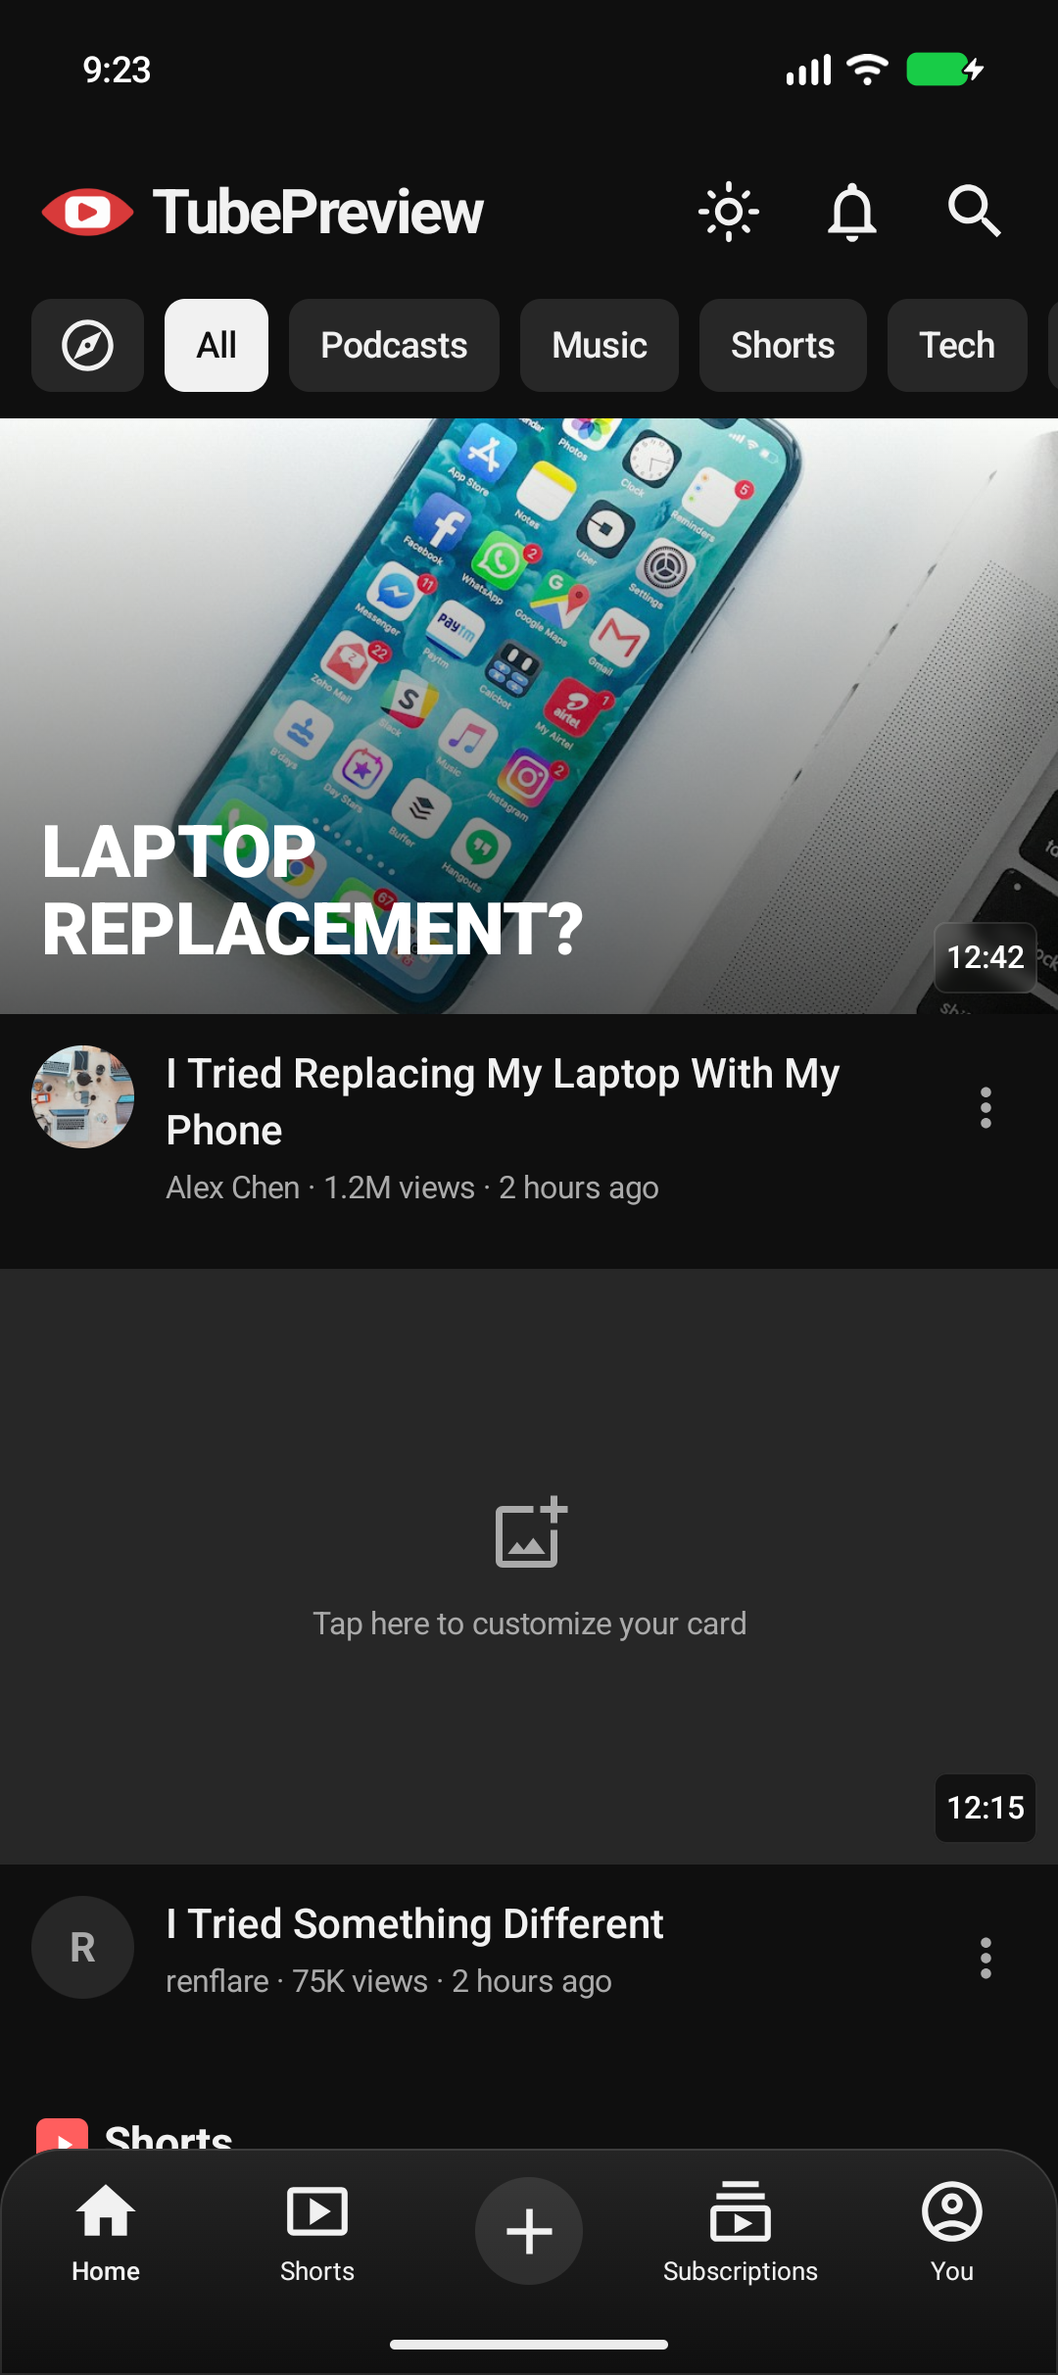
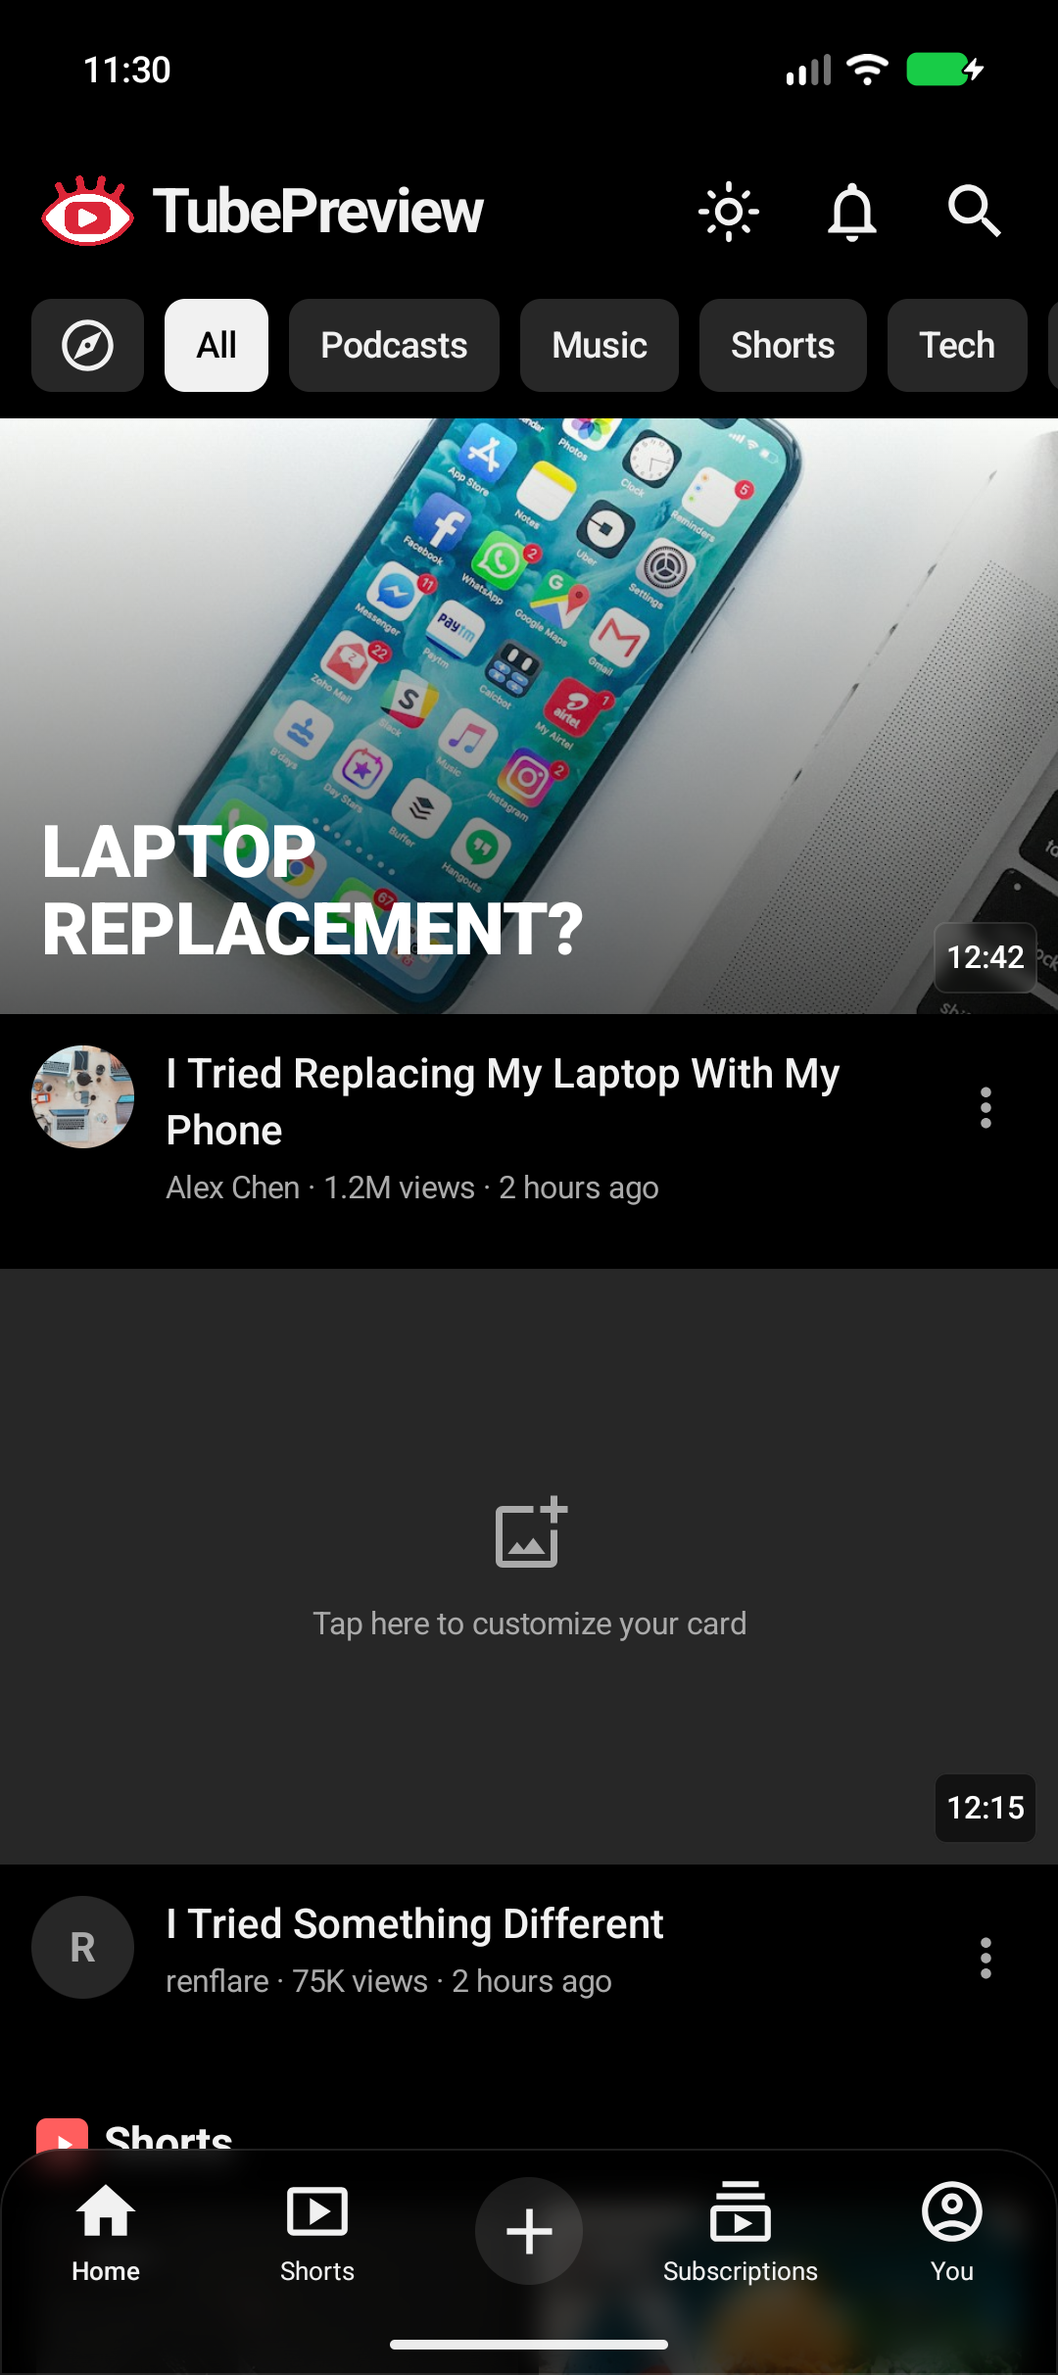
Refresh themed brand assets and add frosted bottom navigation

diff --git a/app/src/main/java/com/renflare/tubepreview/ui/screens/HomeScreen.kt b/app/src/main/java/com/renflare/tubepreview/ui/screens/HomeScreen.kt
@@ -1,7 +1,6 @@
 package com.renflare.tubepreview.ui.screens
 
 import androidx.compose.animation.core.*
-import androidx.compose.foundation.Image
 import androidx.compose.foundation.background
 import androidx.compose.foundation.border
 import androidx.compose.foundation.clickable
@@ -32,14 +31,16 @@ import androidx.compose.ui.input.nestedscroll.nestedScroll
 import androidx.compose.ui.layout.ContentScale
 import androidx.compose.ui.layout.onSizeChanged
 import androidx.compose.ui.platform.testTag
-import androidx.compose.ui.res.painterResource
 import androidx.compose.ui.text.font.FontWeight
 import androidx.compose.ui.text.style.TextOverflow
 import androidx.compose.ui.unit.IntOffset
 import androidx.compose.ui.unit.dp
 import androidx.compose.ui.unit.sp
 import coil.compose.AsyncImage
-import com.renflare.tubepreview.R
+import com.renflare.tubepreview.ui.components.BrandLogo
+import com.renflare.tubepreview.ui.components.rememberFeedBackdrop
+import com.renflare.tubepreview.ui.components.feedBackdropSource
+import com.renflare.tubepreview.ui.components.feedBackdropGlass
 import com.renflare.tubepreview.data.CreatorSettings
 import com.renflare.tubepreview.data.FeedVideo
 import com.renflare.tubepreview.ui.components.VideoCard
@@ -61,6 +62,7 @@ fun HomeScreen(
     val snackbarHostState = remember { SnackbarHostState() }
     val scope = rememberCoroutineScope()
     val listState = rememberLazyListState()
+    val feedBackdrop = rememberFeedBackdrop()
     val pullToRefreshState = rememberPullToRefreshState()
     var refreshRequested by remember { mutableStateOf(false) }
     LaunchedEffect(videoFeed) {
@@ -162,19 +164,10 @@ fun HomeScreen(
                         verticalAlignment = Alignment.CenterVertically,
                         modifier = Modifier.weight(1f)
                     ) {
-                        // The launcher foreground includes safe-zone padding. Display the
-                        // original artwork at 2x scale inside the approved header slot.
-                        Box(
-                            modifier = Modifier.size(width = 36.dp, height = 28.dp)
-                                .clip(androidx.compose.ui.graphics.RectangleShape),
-                            contentAlignment = Alignment.Center
-                        ) {
-                            Image(
-                                painter = painterResource(R.mipmap.ic_launcher_foreground),
-                                contentDescription = "TubePreview",
-                                modifier = Modifier.requiredSize(72.dp)
-                            )
-                        }
+                        BrandLogo(
+                            darkTheme = settings.isDarkMode,
+                            modifier = Modifier.size(36.dp)
+                        )
                         Spacer(Modifier.width(7.dp))
                         Text(
                             text = "TubePreview",
@@ -274,17 +267,7 @@ fun HomeScreen(
                     .offset { IntOffset(x = 0, y = if (isRefreshing || pullToRefreshState.distanceFraction > 0f) 0 else animatedBottomOffset.roundToInt()) }
                     .fillMaxWidth()
                     .clip(RoundedCornerShape(topStart = 24.dp, topEnd = 24.dp))
-                    // A solid backing keeps moving thumbnails from bleeding through the glass.
-                    .background(MaterialTheme.colorScheme.background)
-                    .background(
-                        Brush.verticalGradient(
-                            listOf(
-                                MaterialTheme.colorScheme.surfaceVariant.copy(alpha = 0.90f),
-                                MaterialTheme.colorScheme.surface.copy(alpha = 0.76f)
-                            )
-                        ),
-                        RoundedCornerShape(topStart = 24.dp, topEnd = 24.dp)
-                    )
+                    .feedBackdropGlass(feedBackdrop, MaterialTheme.colorScheme.background)
                     .border(
                         0.5.dp,
                         MaterialTheme.colorScheme.onSurface.copy(alpha = 0.12f),
@@ -378,6 +361,7 @@ fun HomeScreen(
             state = pullToRefreshState,
             modifier = Modifier
                 .fillMaxSize()
+                .feedBackdropSource(feedBackdrop)
                 .background(MaterialTheme.colorScheme.background),
             indicator = {
                 if (isRefreshing || pullToRefreshState.distanceFraction > 0f) {

diff --git a/app/src/main/java/com/renflare/tubepreview/ui/components/FeedBackdrop.kt b/app/src/main/java/com/renflare/tubepreview/ui/components/FeedBackdrop.kt
@@ -1,0 +1,75 @@
+package com.renflare.tubepreview.ui.components
+
+import android.os.Build
+import androidx.compose.runtime.Composable
+import androidx.compose.runtime.Stable
+import androidx.compose.runtime.getValue
+import androidx.compose.runtime.mutableStateOf
+import androidx.compose.runtime.remember
+import androidx.compose.runtime.setValue
+import androidx.compose.ui.Modifier
+import androidx.compose.ui.draw.drawWithContent
+import androidx.compose.ui.geometry.Offset
+import androidx.compose.ui.graphics.BlurEffect
+import androidx.compose.ui.graphics.Color
+import androidx.compose.ui.graphics.TileMode
+import androidx.compose.ui.graphics.layer.GraphicsLayer
+import androidx.compose.ui.graphics.layer.drawLayer
+import androidx.compose.ui.graphics.rememberGraphicsLayer
+import androidx.compose.ui.graphics.drawscope.translate
+import androidx.compose.ui.layout.onGloballyPositioned
+import androidx.compose.ui.layout.positionInRoot
+import androidx.compose.ui.unit.IntSize
+import androidx.compose.ui.unit.dp
+import kotlin.math.ceil
+
+@Stable
+class FeedBackdrop internal constructor(internal val source: GraphicsLayer) {
+    internal var sourcePosition by mutableStateOf(Offset.Zero)
+}
+
+@Composable
+fun rememberFeedBackdrop(): FeedBackdrop {
+    val source = rememberGraphicsLayer()
+    return remember(source) { FeedBackdrop(source) }
+}
+
+/** Records the feed once; both the feed and navigation glass reuse its display list. */
+fun Modifier.feedBackdropSource(backdrop: FeedBackdrop): Modifier =
+    onGloballyPositioned { backdrop.sourcePosition = it.positionInRoot() }
+        .drawWithContent {
+            backdrop.source.record { this@drawWithContent.drawContent() }
+            drawLayer(backdrop.source)
+        }
+
+/** Blurs only the sampled backdrop, leaving navigation icons and text sharp. */
+@Composable
+fun Modifier.feedBackdropGlass(backdrop: FeedBackdrop, tint: Color): Modifier {
+    val blurred = rememberGraphicsLayer()
+    var position by remember { mutableStateOf(Offset.Zero) }
+    val supportsBlur = Build.VERSION.SDK_INT >= Build.VERSION_CODES.S
+    return onGloballyPositioned { position = it.positionInRoot() }
+        .drawWithContent {
+            if (supportsBlur && backdrop.source.size.width > 0) {
+                val radius = 10.dp.toPx()
+                val padding = ceil(radius * 3).toInt()
+                val relative = position - backdrop.sourcePosition
+                // Overscan prevents a hard blur seam at the rounded bar's upper edge.
+                blurred.renderEffect = BlurEffect(radius, radius, TileMode.Clamp)
+                blurred.record(
+                    size = IntSize(
+                        size.width.toInt() + padding * 2,
+                        size.height.toInt() + padding * 2
+                    )
+                ) {
+                    translate(padding - relative.x, padding - relative.y) {
+                        drawLayer(backdrop.source)
+                    }
+                }
+                translate(-padding.toFloat(), -padding.toFloat()) { drawLayer(blurred) }
+            }
+            // Older Android versions retain translucent glass with a stronger legibility tint.
+            drawRect(tint.copy(alpha = if (supportsBlur) 0.68f else 0.85f))
+            drawContent()
+        }
+}

diff --git a/app/src/main/java/com/renflare/tubepreview/ui/screens/OnboardingScreen.kt b/app/src/main/java/com/renflare/tubepreview/ui/screens/OnboardingScreen.kt
@@ -3,7 +3,6 @@ package com.renflare.tubepreview.ui.screens
 import android.net.Uri
 import androidx.activity.compose.rememberLauncherForActivityResult
 import androidx.activity.result.contract.ActivityResultContracts
-import androidx.compose.foundation.Image
 import androidx.compose.foundation.background
 import androidx.compose.foundation.clickable
 import androidx.compose.foundation.layout.*
@@ -20,12 +19,10 @@ import androidx.compose.runtime.saveable.rememberSaveable
 import androidx.compose.ui.Alignment
 import androidx.compose.ui.Modifier
 import androidx.compose.ui.draw.clip
-import androidx.compose.ui.draw.clipToBounds
 import androidx.compose.ui.graphics.Color
 import androidx.compose.ui.layout.ContentScale
 import androidx.compose.ui.platform.LocalContext
 import androidx.compose.ui.platform.testTag
-import androidx.compose.ui.res.painterResource
 import androidx.compose.ui.res.stringResource
 import androidx.compose.ui.semantics.Role
 import androidx.compose.ui.text.font.FontWeight
@@ -35,6 +32,7 @@ import androidx.compose.ui.unit.sp
 import coil.compose.AsyncImage
 import com.renflare.tubepreview.R
 import com.renflare.tubepreview.data.CreatorSettings
+import com.renflare.tubepreview.ui.components.BrandLogo
 import com.renflare.tubepreview.ui.components.GlassTextField
 import com.renflare.tubepreview.ui.components.glassBorder
 import com.renflare.tubepreview.ui.components.glassBorderStroke
@@ -95,17 +93,10 @@ fun OnboardingScreen(
                         verticalAlignment = Alignment.CenterVertically,
                         horizontalArrangement = Arrangement.spacedBy(10.dp)
                     ) {
-                        Box(
-                            modifier = Modifier.size(width = 40.dp, height = 30.dp).clipToBounds(),
-                            contentAlignment = Alignment.Center
-                        ) {
-                            // Match the splash logo, removing the adaptive icon's empty safe zone.
-                            Image(
-                                painter = painterResource(R.mipmap.ic_launcher_foreground),
-                                contentDescription = null,
-                                modifier = Modifier.requiredSize(80.dp)
-                            )
-                        }
+                        BrandLogo(
+                            darkTheme = settings.isDarkMode,
+                            modifier = Modifier.size(40.dp)
+                        )
                         Text(
                             text = stringResource(R.string.app_name),
                             fontSize = 18.sp,

diff --git a/app/src/test/java/com/renflare/tubepreview/BrandThemeTest.kt b/app/src/test/java/com/renflare/tubepreview/BrandThemeTest.kt
@@ -1,0 +1,63 @@
+package com.renflare.tubepreview
+
+import android.content.Context
+import android.graphics.BitmapFactory
+import android.graphics.Color as AndroidColor
+import androidx.compose.material3.MaterialTheme
+import androidx.compose.material3.ColorScheme
+import androidx.compose.ui.graphics.Color
+import androidx.compose.ui.test.junit4.createComposeRule
+import androidx.test.core.app.ApplicationProvider
+import com.renflare.tubepreview.ui.theme.TubePreviewTheme
+import org.junit.Assert.assertEquals
+import org.junit.Assert.assertTrue
+import org.junit.Rule
+import org.junit.Test
+import org.junit.runner.RunWith
+import org.robolectric.RobolectricTestRunner
+import org.robolectric.annotation.Config
+import org.robolectric.annotation.GraphicsMode
+
+@RunWith(RobolectricTestRunner::class)
+@Config(sdk = [24, 36])
+@GraphicsMode(GraphicsMode.Mode.NATIVE)
+class BrandThemeTest {
+    @get:Rule val compose = createComposeRule()
+
+    @Test
+    fun defaultThemeHasPureBlackCanvas() {
+        lateinit var colors: ColorScheme
+        compose.setContent { TubePreviewTheme { colors = MaterialTheme.colorScheme } }
+        compose.runOnIdle {
+            assertEquals(Color.Black, colors.background)
+            assertEquals(Color.Black, colors.surface)
+        }
+    }
+
+    @Test
+    fun explicitLightThemeHasWhiteCanvas() {
+        lateinit var colors: ColorScheme
+        compose.setContent { TubePreviewTheme(darkTheme = false) { colors = MaterialTheme.colorScheme } }
+        compose.runOnIdle { assertEquals(Color.White, colors.background) }
+    }
+
+    @Test
+    fun brandVariantsPreserveTransparentMarginsAndDistinctOutlines() {
+        val context = ApplicationProvider.getApplicationContext<Context>()
+        val dark = BitmapFactory.decodeResource(context.resources, R.drawable.brand_logo_dark)
+        val light = BitmapFactory.decodeResource(context.resources, R.drawable.brand_logo_light)
+        try {
+            assertEquals(0, AndroidColor.alpha(dark.getPixel(0, 0)))
+            assertEquals(0, AndroidColor.alpha(light.getPixel(0, 0)))
+            val redOutline = dark.getPixel(512, 310)
+            val blackOutline = light.getPixel(512, 310)
+            assertTrue(AndroidColor.red(redOutline) > AndroidColor.green(redOutline) * 2)
+            assertTrue(AndroidColor.red(blackOutline) < 40)
+            assertEquals(255, AndroidColor.alpha(redOutline))
+            assertEquals(255, AndroidColor.alpha(blackOutline))
+        } finally {
+            dark.recycle()
+            light.recycle()
+        }
+    }
+}

diff --git a/app/src/main/java/com/renflare/tubepreview/ui/components/StartupSplash.kt b/app/src/main/java/com/renflare/tubepreview/ui/components/StartupSplash.kt
@@ -8,13 +8,11 @@ import androidx.compose.animation.core.FastOutSlowInEasing
 import androidx.compose.animation.core.LinearEasing
 import androidx.compose.animation.core.tween
 import androidx.compose.foundation.Canvas
-import androidx.compose.foundation.Image
 import androidx.compose.foundation.background
 import androidx.compose.foundation.clickable
 import androidx.compose.foundation.interaction.MutableInteractionSource
 import androidx.compose.foundation.layout.Box
 import androidx.compose.foundation.layout.fillMaxSize
-import androidx.compose.foundation.layout.requiredSize
 import androidx.compose.foundation.layout.size
 import androidx.compose.material3.MaterialTheme
 import androidx.compose.runtime.Composable
@@ -40,13 +38,11 @@ import androidx.compose.ui.graphics.lerp
 import androidx.compose.ui.graphics.luminance
 import androidx.compose.ui.platform.LocalView
 import androidx.core.view.WindowCompat
-import androidx.compose.ui.res.painterResource
 import androidx.compose.ui.semantics.ProgressBarRangeInfo
 import androidx.compose.ui.semantics.contentDescription
 import androidx.compose.ui.semantics.progressBarRangeInfo
 import androidx.compose.ui.semantics.semantics
 import androidx.compose.ui.unit.dp
-import com.renflare.tubepreview.R
 import kotlinx.coroutines.cancelAndJoin
 import kotlinx.coroutines.coroutineScope
 import kotlinx.coroutines.launch
@@ -109,7 +105,7 @@ fun StartupSplash(
     }
 
     // Match the starting window even if the saved light theme arrives mid-animation.
-    val background = Color(0xFF0F0F0F)
+    val background = Color.Black
     val view = LocalView.current
     val lightSystemBars = MaterialTheme.colorScheme.background.luminance() > 0.5f
     DisposableEffect(view, lightSystemBars) {
@@ -235,16 +231,14 @@ internal fun SplashArtwork(
 @Composable
 private fun OriginalSplashLogo(width: Float, alpha: Float) {
     Box(
-        modifier = Modifier.size(width.dp, (width * 0.73f).dp)
+        modifier = Modifier.size(width.dp)
             .graphicsLayer { this.alpha = alpha }
             .clip(RectangleShape),
         contentAlignment = Alignment.Center
     ) {
-        // Use the exact app asset, compensating for the adaptive-icon safe zone.
-        Image(
-            painter = painterResource(R.mipmap.ic_launcher_foreground),
-            contentDescription = null,
-            modifier = Modifier.requiredSize((width * 2f).dp)
+        BrandLogo(
+            darkTheme = true,
+            modifier = Modifier.size(width.dp)
         )
     }
 }

diff --git a/app/src/main/java/com/renflare/tubepreview/ui/components/BrandLogo.kt b/app/src/main/java/com/renflare/tubepreview/ui/components/BrandLogo.kt
@@ -1,0 +1,24 @@
+package com.renflare.tubepreview.ui.components
+
+import androidx.compose.foundation.Image
+import androidx.compose.material3.MaterialTheme
+import androidx.compose.runtime.Composable
+import androidx.compose.ui.Modifier
+import androidx.compose.ui.graphics.luminance
+import androidx.compose.ui.layout.ContentScale
+import androidx.compose.ui.res.painterResource
+import com.renflare.tubepreview.R
+
+/** Uses the original transparent artwork, without launcher safe-zone padding. */
+@Composable
+fun BrandLogo(
+    modifier: Modifier = Modifier,
+    darkTheme: Boolean = MaterialTheme.colorScheme.background.luminance() < 0.5f
+) {
+    Image(
+        painter = painterResource(if (darkTheme) R.drawable.brand_logo_dark else R.drawable.brand_logo_light),
+        contentDescription = null,
+        contentScale = ContentScale.Fit,
+        modifier = modifier
+    )
+}

diff --git a/app/src/main/java/com/renflare/tubepreview/ui/theme/Theme.kt b/app/src/main/java/com/renflare/tubepreview/ui/theme/Theme.kt
@@ -1,7 +1,6 @@
 package com.renflare.tubepreview.ui.theme
 
 import android.os.Build
-import androidx.compose.foundation.isSystemInDarkTheme
 import androidx.compose.material3.MaterialTheme
 import androidx.compose.material3.darkColorScheme
 import androidx.compose.material3.dynamicDarkColorScheme
@@ -50,7 +49,7 @@ private val LightColorScheme = lightColorScheme(
 
 @Composable
 fun TubePreviewTheme(
-    darkTheme: Boolean = isSystemInDarkTheme(),
+    darkTheme: Boolean = true,
     // Allow users to force theme styles explicitly
     dynamicColor: Boolean = false, // Keep YouTube branding colors sharp by default
     content: @Composable () -> Unit,

diff --git a/app/src/main/java/com/renflare/tubepreview/ui/theme/Color.kt b/app/src/main/java/com/renflare/tubepreview/ui/theme/Color.kt
@@ -5,7 +5,7 @@ import androidx.compose.ui.graphics.Color
 // YouTube-Inspired Creator Colors
 val YouTubeRed = Color(0xFFFF5E5E) // Brand-new YouTube-inspired warm-coral highlight
 val PureWhite = Color(0xFFFFFFFF)
-val RealBlack = Color(0xFF0F0F0F) // YouTube dark background
+val RealBlack = Color(0xFF000000) // Pure black canvas and primary surfaces
 val CardDarkGray = Color(0xFF272727) // Minimalist surface card gray
 val CardLightGray = Color(0xFFF2F2F2) // M3 Lavender gray container
 

diff --git a/README.md b/README.md
@@ -16,7 +16,7 @@ home feed on Android. No YouTube account required.
 - Add a thumbnail and an optional channel photo.
 - Customize the channel name, video title, views, and duration.
 - See your video alongside sample videos and adjust its placement in the feed.
-- Switch between light and dark themes.
+- Compare light mode with a pure-black dark theme.
 - Reset your preview whenever you want a fresh start.
 
 TubePreview is an independent preview tool and is not affiliated with YouTube or Google.
